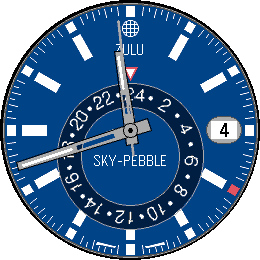
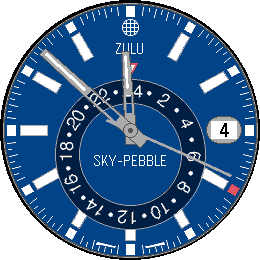
Polish dial details and enlarge GMT ring
Soften hand and pivot outlines from black to dark grey, add light grey border around hour markers, extend markers 1px closer to month windows, and enlarge the 24-hour ring by 4px diameter (keeping bottom edge fixed) to reduce the gap between ZULU and the GMT pointer.

diff --git a/src/c/main.c b/src/c/main.c
@@ -23,14 +23,14 @@
 #define TICK_OUTER_R       124   // aligned with month window outer edge
 #define TICK_MIN_INNER_R   116   // minute ticks (8px long)
 #define TICK_HALF_INNER_R  120   // half-minute ticks (4px long)
-#define MARKER_OUTER_R     109
+#define MARKER_OUTER_R     110
 #define MARKER_INNER_R      83
 
 // GMT ring (off-center 24-hour annulus, shifted below dial center)
-#define GMT_DISC_OFFSET_Y   26
-#define GMT_RING_OUTER      73
-#define GMT_RING_INNER      49
-#define GMT_NUM_R           61
+#define GMT_DISC_OFFSET_Y   24
+#define GMT_RING_OUTER      75
+#define GMT_RING_INNER      51
+#define GMT_NUM_R           63
 
 // Hand dimensions
 #define HOUR_HAND_LEN       80
@@ -42,8 +42,8 @@
 #define SEC_HAND_LEN       110
 #define SEC_HAND_TAIL       25
 
-// GMT disc bitmap center (150×150 image)
-#define GMT_BITMAP_CENTER   75
+// GMT disc bitmap center (154×154 image)
+#define GMT_BITMAP_CENTER   77
 
 // ============================================================================
 // GLOBALS
@@ -183,6 +183,9 @@ static void draw_hour_markers(GContext *ctx) {
         GPathInfo info = { .num_points = 4, .points = pts };
         GPath *path = gpath_create(&info);
         gpath_draw_filled(ctx, path);
+        graphics_context_set_stroke_color(ctx, GColorLightGray);
+        graphics_context_set_stroke_width(ctx, 1);
+        gpath_draw_outline(ctx, path);
         gpath_destroy(path);
     }
 }
@@ -442,7 +445,7 @@ static void draw_hand(GContext *ctx, int32_t angle, int lume_width,
     gpath_draw_filled(ctx, outer);
     gpath_destroy(outer);
 
-    // 5. Full hand outline — continuous black edge from base to tip
+    // 5. Full hand outline — continuous dark grey edge from base to tip
     GPoint fp[4] = {
         GPoint(-tip_w, -hand_len), GPoint(tip_w, -hand_len),
         GPoint(hand_width, hand_tail), GPoint(-hand_width, hand_tail)
@@ -451,7 +454,7 @@ static void draw_hand(GContext *ctx, int32_t angle, int lume_width,
     GPath *full = gpath_create(&fi);
     gpath_rotate_to(full, angle);
     gpath_move_to(full, s_center);
-    graphics_context_set_stroke_color(ctx, GColorBlack);
+    graphics_context_set_stroke_color(ctx, GColorDarkGray);
     graphics_context_set_stroke_width(ctx, 1);
     gpath_draw_outline(ctx, full);
     gpath_destroy(full);
@@ -492,10 +495,10 @@ static void draw_hands(GContext *ctx, struct tm *t) {
     // Center pivot
     graphics_context_set_fill_color(ctx, GColorLightGray);
     graphics_fill_circle(ctx, s_center, 7);
-    graphics_context_set_stroke_color(ctx, GColorBlack);
+    graphics_context_set_stroke_color(ctx, GColorDarkGray);
     graphics_context_set_stroke_width(ctx, 1);
     graphics_draw_circle(ctx, s_center, 7);
-    graphics_context_set_fill_color(ctx, GColorBlack);
+    graphics_context_set_fill_color(ctx, GColorDarkGray);
     graphics_fill_circle(ctx, s_center, 2);
 }
 

diff --git a/scripts/gen_gmt_disc.py b/scripts/gen_gmt_disc.py
@@ -14,9 +14,9 @@ import os
 from PIL import Image, ImageDraw, ImageFont
 
 # Must match constants in main.c
-GMT_RING_OUTER = 73
-GMT_RING_INNER = 49
-GMT_NUM_R = 61
+GMT_RING_OUTER = 75
+GMT_RING_INNER = 51
+GMT_NUM_R = 63
 
 # Render at 2x then downscale for cleaner edges
 SCALE = 2
